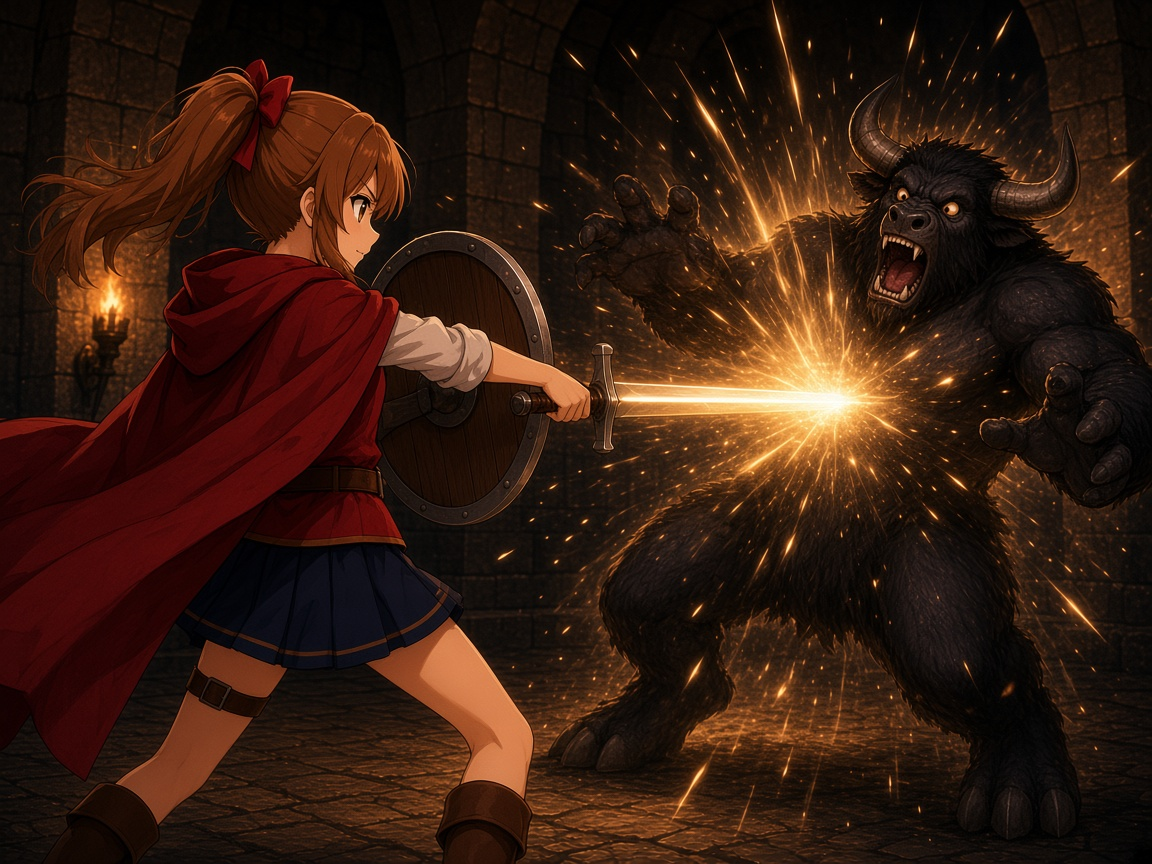
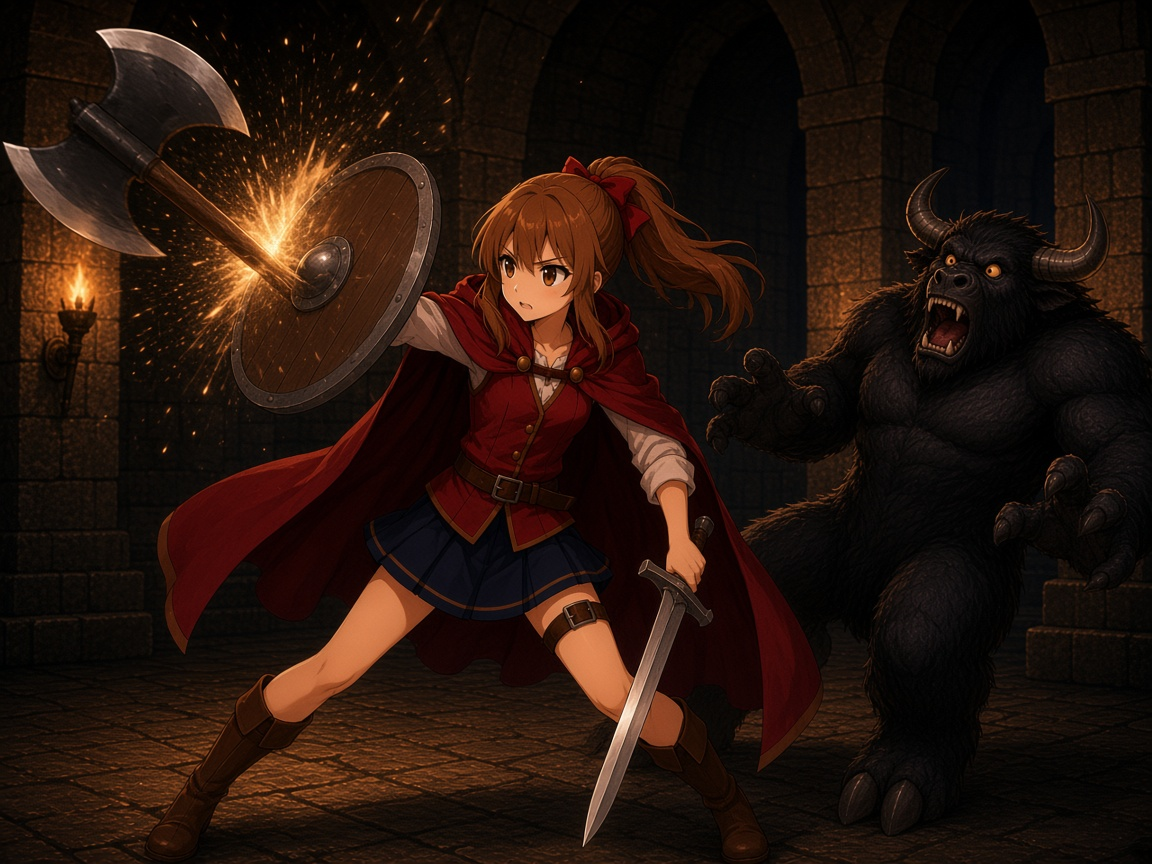
Drop rare name colors, redraw parry, and make battle-only a keyword on anger.

diff --git a/index.html b/index.html
@@ -3747,8 +3747,7 @@
         1px -1px 0 #0a0806,
         -1px -1px 0 #0a0806;
     }
-    .card-fit.r2 .nameplate .name { color: #d7dee8; }
-    .card-fit.r3 .nameplate .name { color: #ffe14a; }
+    .card .fx.note .kw-line { display: block; text-align: center; }
     /* レアリティの装飾枠。★★銀・★★★金は見せてもらった唐草をそのまま。差し色だけジャンル */
     .card:has(.card-fit.r2),
     .card:has(.card-fit.r3) {
@@ -3962,26 +3961,6 @@
       color: #14110e;
       -webkit-text-stroke: 0;
       text-shadow: none;
-    }
-    .card .card-fit.r2 .nameplate .name {
-      color: #d7dee8;
-      -webkit-text-stroke: 0.9px #0a0806;
-      paint-order: stroke fill;
-      text-shadow:
-        1px 0 0 #0a0806,
-        -1px 0 0 #0a0806,
-        0 1px 0 #0a0806,
-        0 -1px 0 #0a0806;
-    }
-    .card .card-fit.r3 .nameplate .name {
-      color: #ffe14a;
-      -webkit-text-stroke: 0.9px #0a0806;
-      paint-order: stroke fill;
-      text-shadow:
-        1px 0 0 #0a0806,
-        -1px 0 0 #0a0806,
-        0 1px 0 #0a0806,
-        0 -1px 0 #0a0806;
     }
     .card .card-fit .text {
       position: absolute;
@@ -6593,9 +6572,9 @@
       アタック: "card-attack-f.jpg?v=9",
       チャージアタック: "card-charge-f.jpg?v=7",
       ブロック: "card-block-f.jpg?v=10",
-      パリィ: "card-parry.jpg?v=8",
+      パリィ: "card-parry.jpg?v=9",
       捨て身の一撃: "",
-      怒り: "",
+      怒り: "card-anger.jpg?v=2",
       パリィスラッシュ: "",
       臆病者の構え: "",
       ライフフルネスアタック: "",
@@ -6634,7 +6613,7 @@
     const WARRIOR = {
       パリィ: { cost: 2, stars: 1, text: "パリィを得る", parry: true, kind: "block", note: "次の攻撃を１回無効にする。重複不可。ターン終了時に消失。パリィがある間、シールドを追加で得ることはできない。" },
       捨て身の一撃: { cost: 1, text: "6ダメージ\n次に受けるダメージ+3", damage: 6, kind: "attack", expose: 3 },
-      怒り: { cost: 0, text: "この戦闘中 ATK+1 DEF-2", kind: "skill", rage: true },
+      怒り: { cost: 0, text: "戦闘中\nATK+1　DEF-2", kind: "skill", rage: true, during: true },
       パリィスラッシュ: { cost: 3, text: "5ダメージ\nパリィを得る", damage: 5, parry: true, kind: "attack" },
       臆病者の構え: { cost: 2, text: "この戦闘中、パリィ中でもシールドを得る\n使ったらこの戦闘のデッキから廃棄", kind: "power", power: true, coward: true },
       ライフフルネスアタック: { cost: 3, text: "10ダメージ\n体力が満タンなら+5", damage: 10, kind: "attack", fullBonus: 5 },
@@ -6770,6 +6749,7 @@
     let foeDiscard = [];
     const POISON_NOTE = "毒は、自分のターンが終わるとき、毒の数だけダメージを受ける。重なる。";
     const PARRY_NOTE = "次の攻撃を１回無効にする。重複不可。ターン終了時に消失。パリィがある間、シールドを追加で得ることはできない。奥義「パリィが重複する」のときは重なる。";
+    const DURING_NOTE = "使ったら消える。次の戦闘で戻る。";
     const INSTANT_NOTE = "インスタントは効果。使った戦闘のデッキから廃棄される。戦闘が終わると戻る。";
     const QUICK_NOTE = "クイックは、プレイエリアに置かず、すぐに効果が発動する。";
     let phase = "player";
@@ -8501,7 +8481,7 @@
         player.atkMod = (Number(player.atkMod) || 0) + 1;
         player.defMod = (Number(player.defMod) || 0) - 2;
         syncGearStats();
-        log(`${heroName()}は${card.name}。ATK${signed(player.atk)}、DEF${signed(player.def)}。戦闘が終わると戻る。`, card);
+        log(`${heroName()}は${card.name}。ATK${signed(player.atk)}、DEF${signed(player.def)}。このカードは次の戦闘まで消える。`, card);
         return;
       }
       if (card.poise) {
@@ -8729,7 +8709,7 @@
 
     function goesToDiscard(card) {
       if (!card) return false;
-      if (card.power || card.instant || card.kind === "power") return false;
+      if (card.power || card.instant || card.during || card.kind === "power") return false;
       return true;
     }
 
@@ -8993,7 +8973,7 @@
       capturePlayClearFlights();
       while (inPlay.length) {
         const card = inPlay.shift();
-        if (card.power || card.instant) battleExile.push(card);
+        if (card.power || card.instant || card.during) battleExile.push(card);
         else discard.push(card);
       }
       resolveAt = 0;
@@ -11618,6 +11598,7 @@
         }
       }
       let noteText = esc(live ? liveCardText(card, fromHand, foe) : (card.text || "")).replaceAll("\n", "<br>");
+      if (card.during) noteText = noteText.replace(/^戦闘中(?:<br>)?/u, `<span class="kw-line hint">戦闘中<i>${esc(DURING_NOTE)}</i></span>`);
       if (card.parry && card.note) noteText = noteText.replaceAll("パリィ", `<span class="hint">パリィ<i>${esc(card.note)}</i></span>`);
       if (card.poison) noteText = noteText.replaceAll("毒", `<span class="hint">毒<i>${esc(POISON_NOTE)}</i></span>`);
       if (card.burn) noteText = noteText.replaceAll("炎上", `<span class="hint">炎上<i>${esc(BURN_NOTE)}</i></span>`);
@@ -11999,6 +11980,7 @@
       if (card.press) next.press = true;
       if (card.power) next.power = true;
       if (card.rage) next.rage = true;
+      if (card.during) next.during = true;
       if (card.expose) next.expose = card.expose;
       if (card.fullBonus) next.fullBonus = card.fullBonus;
       if (card.safeBonus) next.safeBonus = card.safeBonus;
